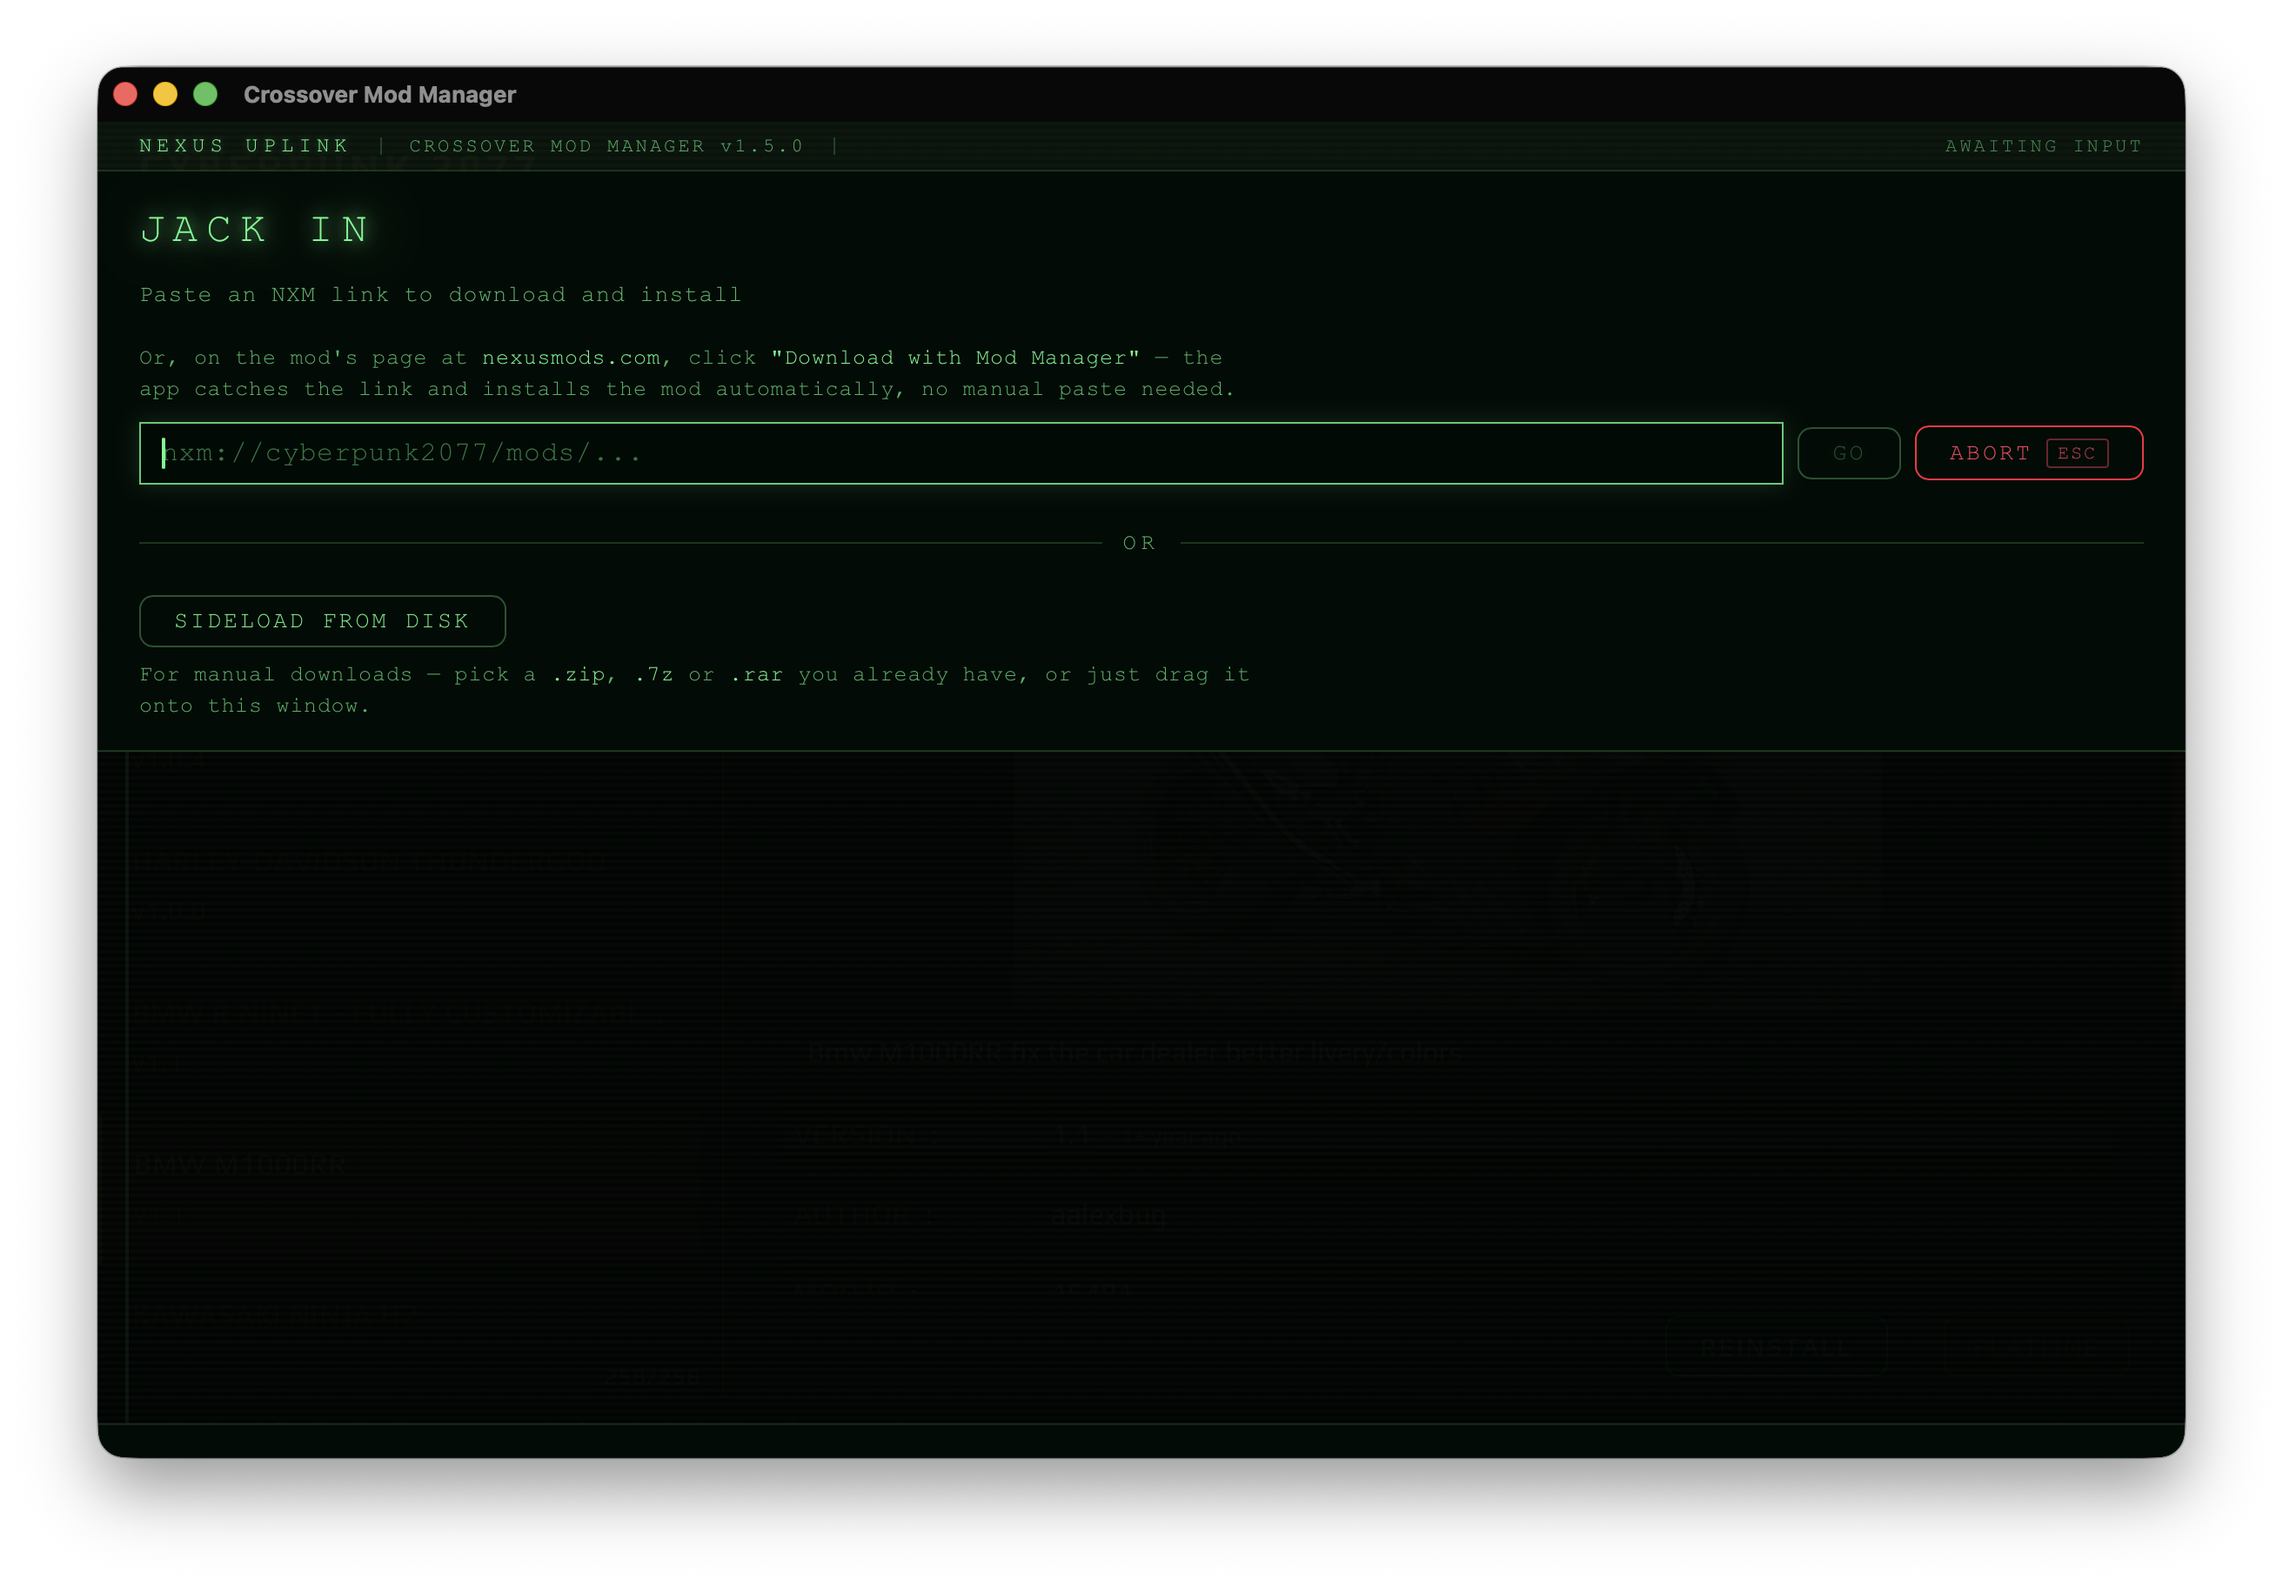
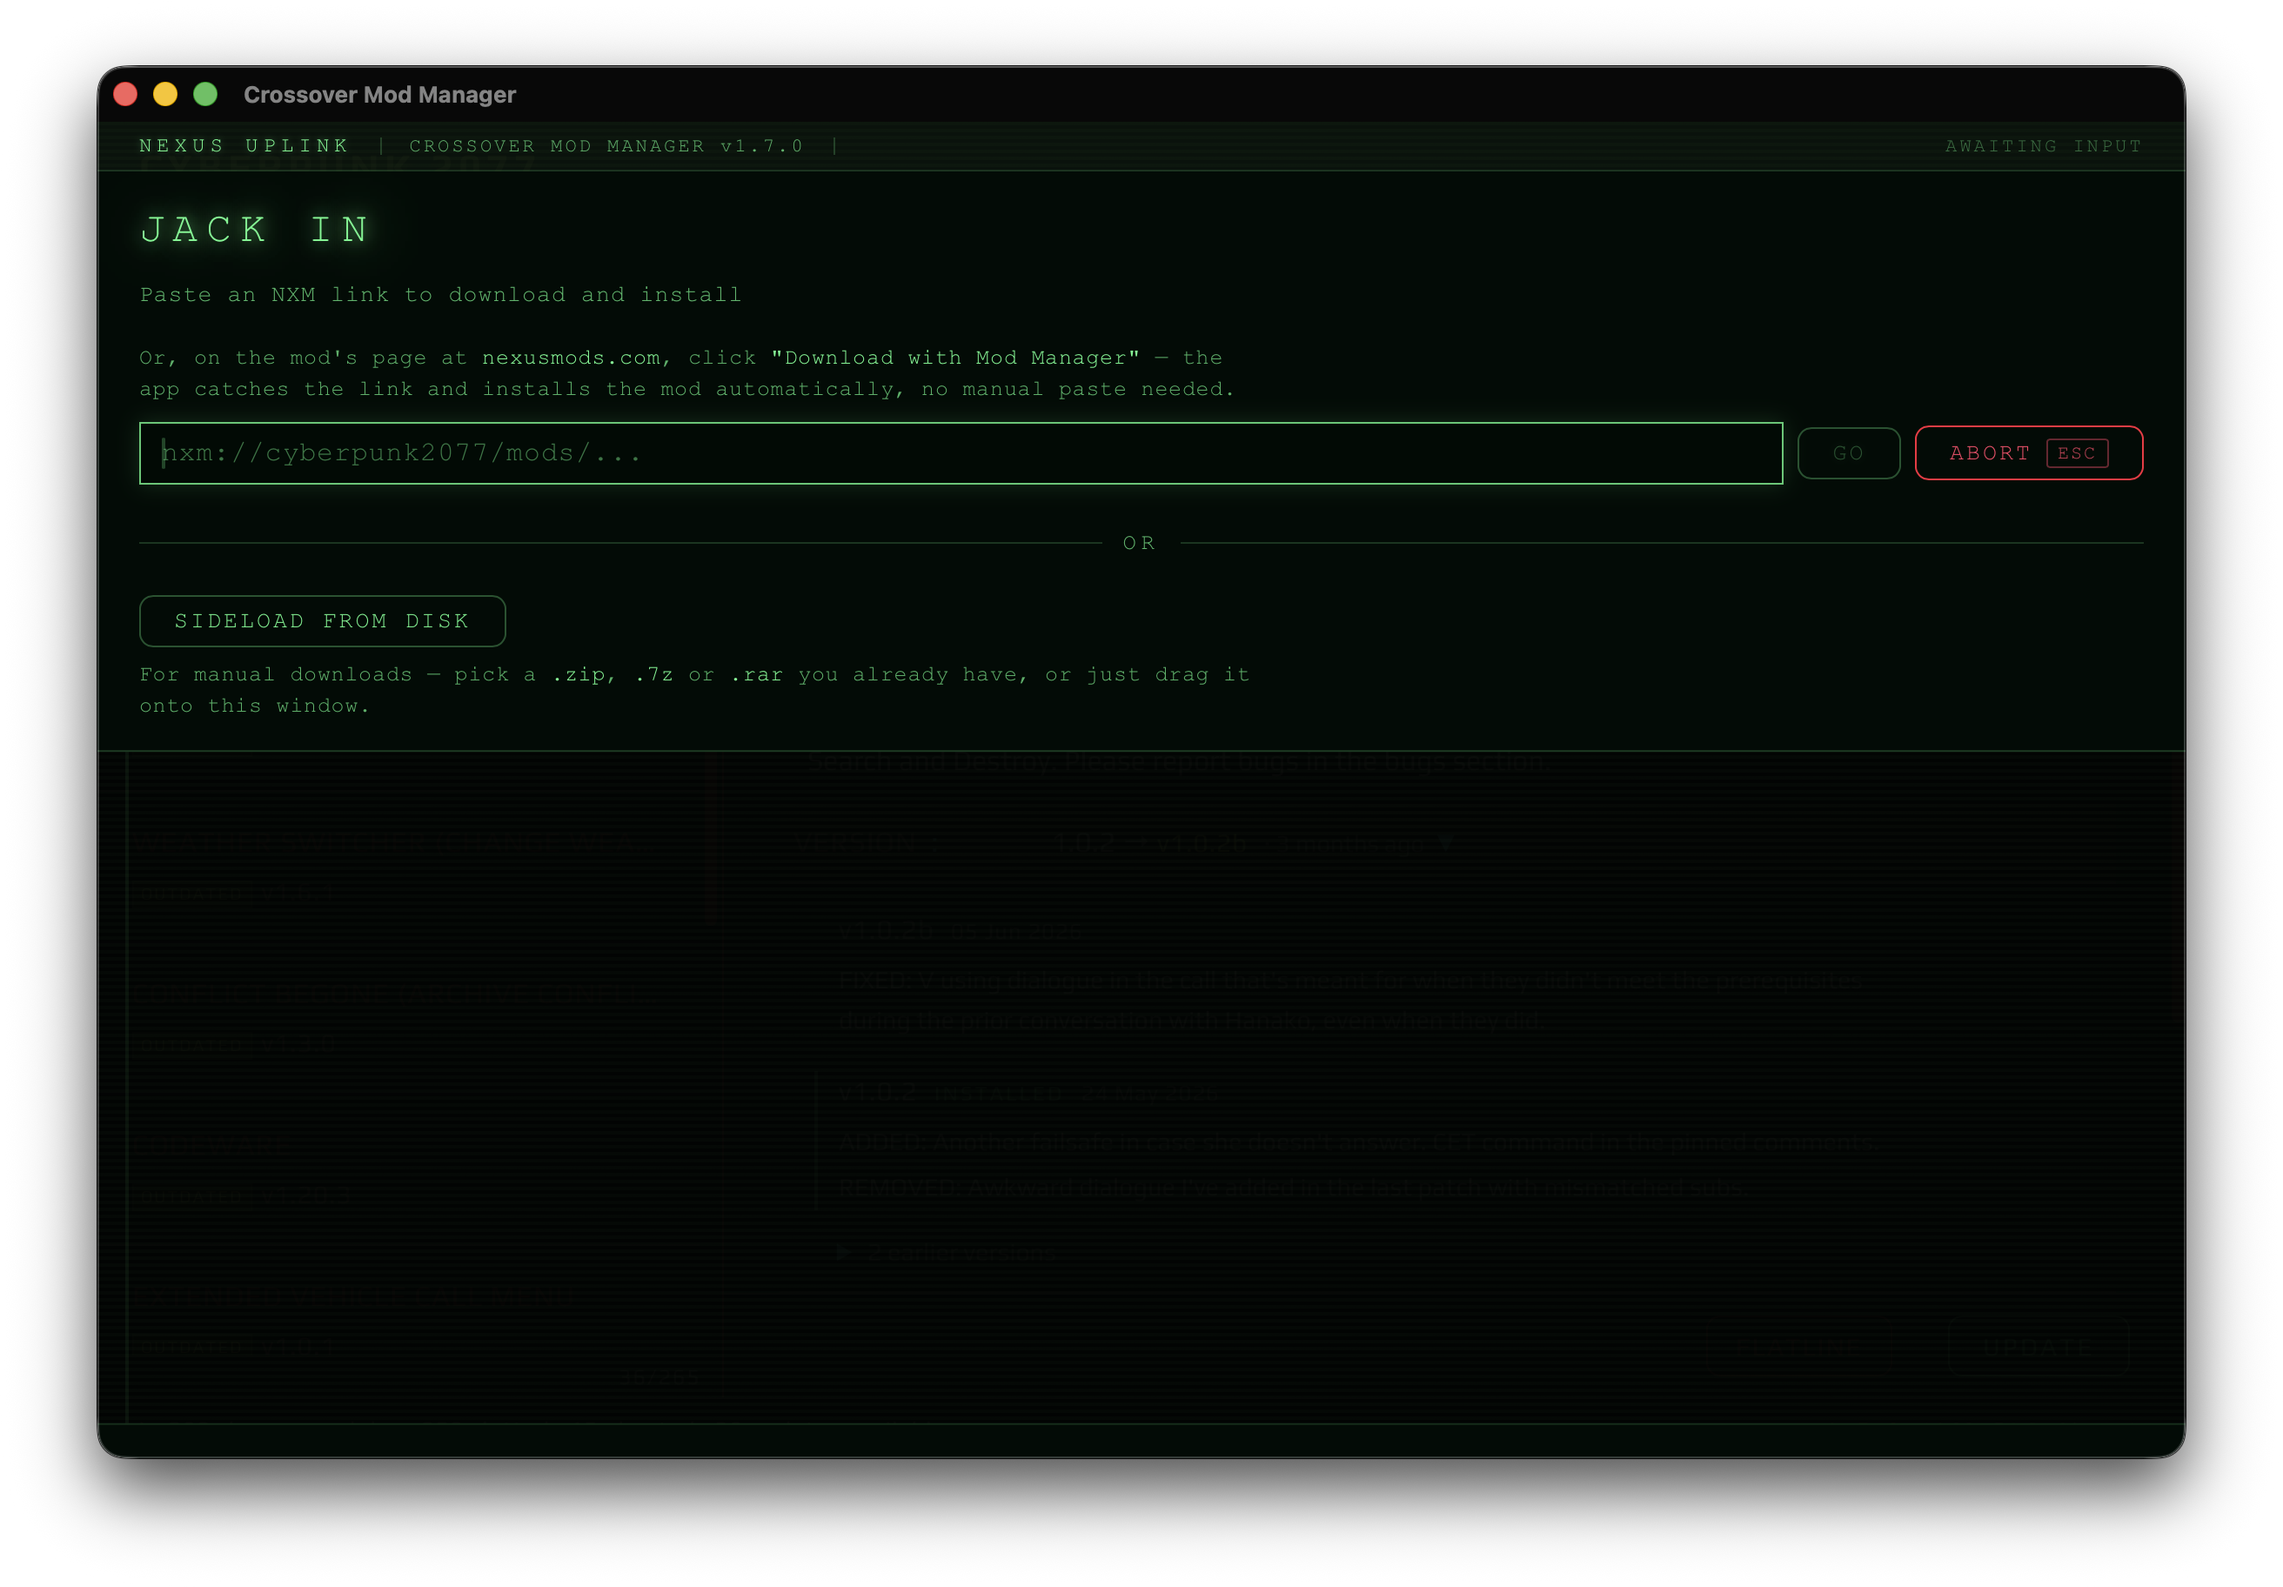
docs: refresh screenshots for 1.7 and show every one without a spoiler

Changed region(s): [[0.0312, 0.0938, 0.9688, 0.9688]]

diff --git a/README.md b/README.md
@@ -48,19 +48,15 @@ Enjoy Night City, choom!
 <td><b>Jack In</b> — paste an NXM link, or sideload an archive from disk</td>
 <td><b>Splash</b> — click anywhere to skip</td>
 </tr>
-</table>
-
-<details>
-<summary><b>Jack In, while it works</b> — download progress and the finished install</summary>
-
-<table>
 <tr>
-<td width="50%"><img src="docs/screenshots/jack-in2.png" alt="Jack In — downloading"></td>
-<td width="50%"><img src="docs/screenshots/jack-in3.png" alt="Jack In — install complete"></td>
+<td><img src="docs/screenshots/jack-in2.png" alt="Jack In — downloading"></td>
+<td><img src="docs/screenshots/jack-in3.png" alt="Jack In — install complete"></td>
+</tr>
+<tr>
+<td><b>Jack In, while it works</b> — download progress</td>
+<td><b>Jack In, done</b> — the finished install</td>
 </tr>
 </table>
-
-</details>
 
 <a id="whats-new"></a>
 ## What's New in 1.7
